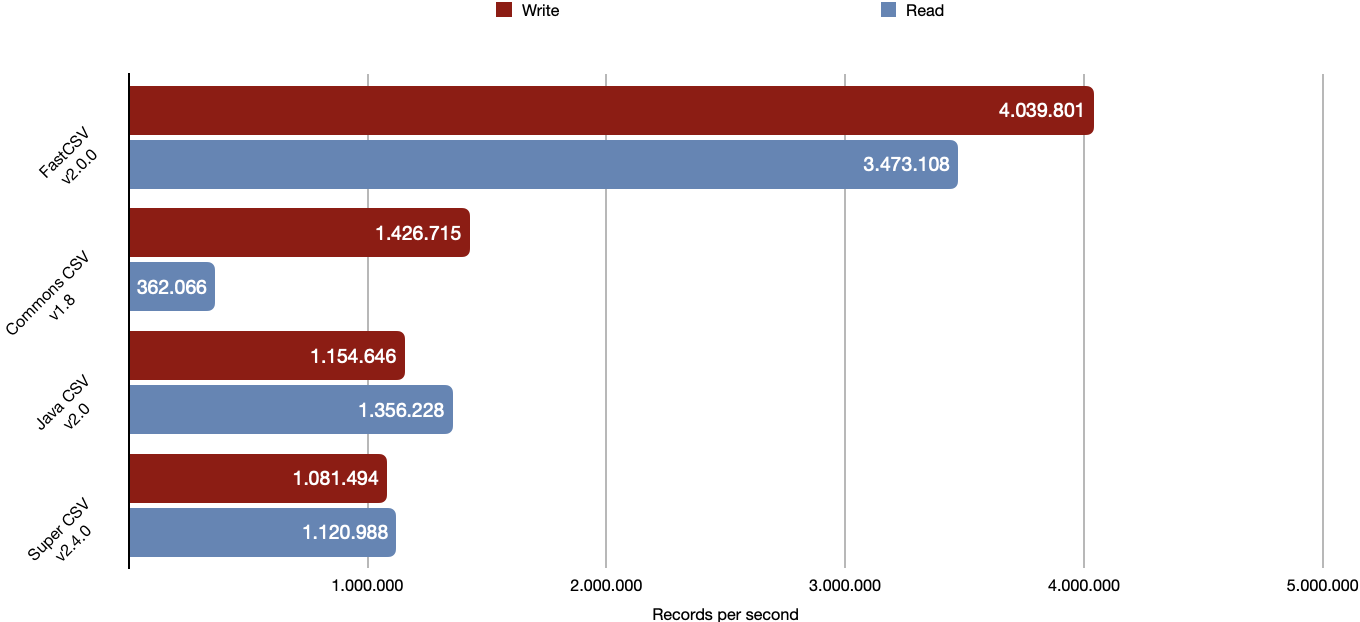
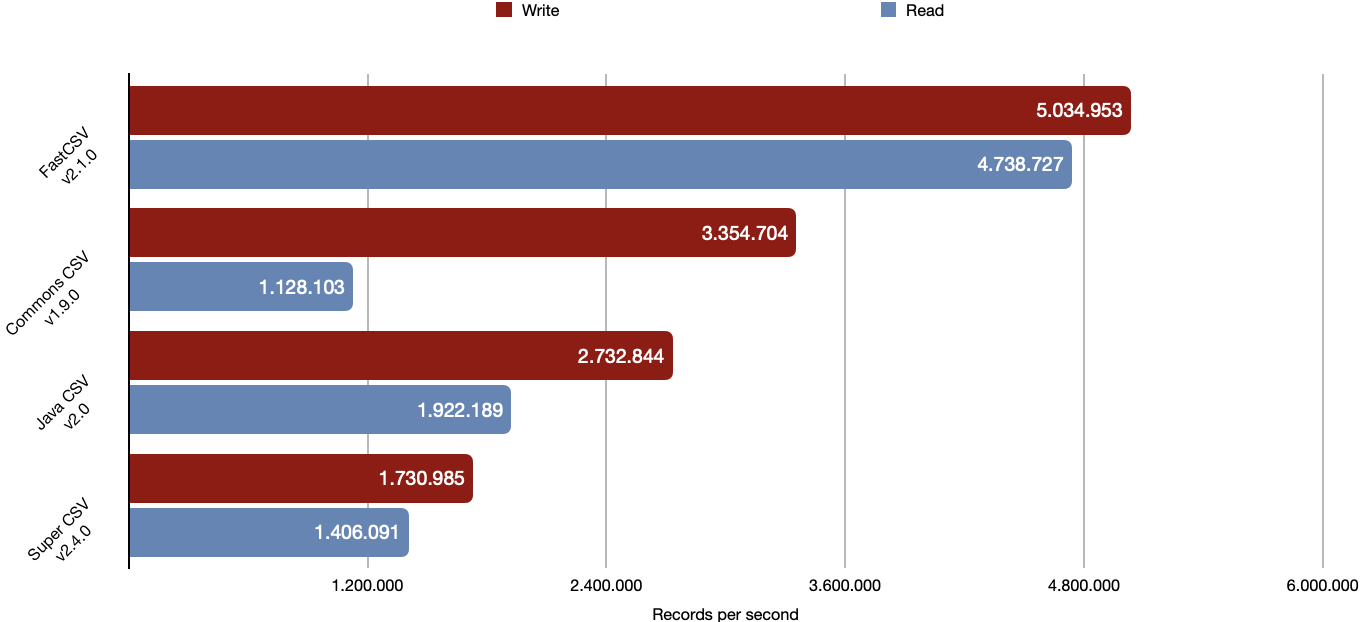
update benchmark

diff --git a/README.md b/README.md
@@ -13,13 +13,15 @@ Actively developed and maintained since 2015 its primary intended use cases are:
 - big data applications to read and write data on a massive scale
 - small data applications with the need for a lightweight library
 
-## Benchmark
+## Benchmark & Compatibility
 
 A selected benchmark from the
-[Java CSV library benchmark suite](https://github.com/osiegmar/JavaCsvBenchmarkSuite) project.
-Comparing to some other popular, dependency-free and small (< 100 KB) libraries.
+[Java CSV library benchmark suite](https://github.com/osiegmar/JavaCsvBenchmarkSuite) project:
 
 ![Benchmark](benchmark.png "Benchmark")
+
+While maintaining high performance, FastCSV is a strict RFC 4180 CSV writer but also able
+to read garbled CSV data (to some degree). See [JavaCsvComparison](https://github.com/osiegmar/JavaCsvComparison) for details.
 
 ## Features
 
@@ -42,7 +44,6 @@ Comparing to some other popular, dependency-free and small (< 100 KB) libraries.
 ### Reader specific
 
 - Support reading of some non-compliant (real world) data
-  ([see comparison with other libraries](https://github.com/osiegmar/JavaCsvComparison))
 - Preserving line break character(s) within fields
 - Preserving the original line number (even with skipped and multi line records) –
   helpful for error messages
